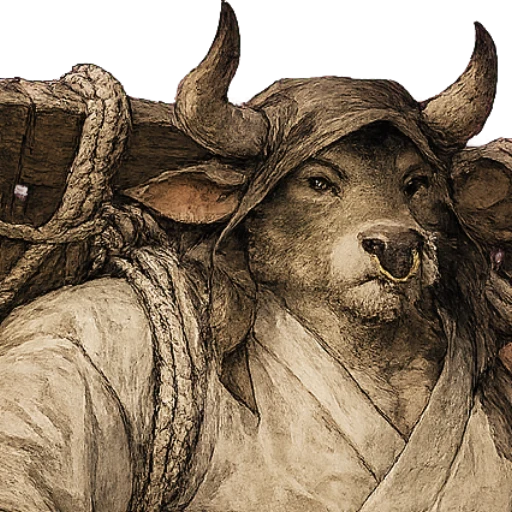
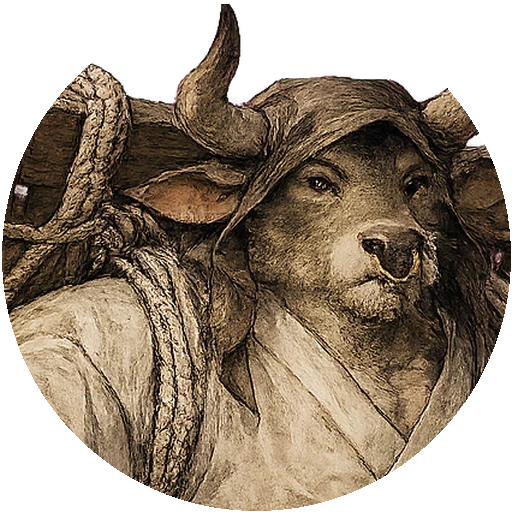
feat(client): 보드 토큰을 얼굴 일러스트로 — 색 원판 위 원형 얼굴 (game-scene)
- 얼굴 에셋을 원형(circular alpha)으로 재생성 — DOM 아이콘/토큰 공용
- 토큰·계략NPC face를 이모지 텍스트 → 얼굴 이미지(색 원판보다 작게 얹어 원판 색이 링으로 보임)
- makeFace(): 얼굴 텍스처 있으면 이미지, 없으면 이모지 폴백. identity()도 이미지/텍스트 분기
- 상단 턴순서 스트립(ti-chip)은 이모지 그대로 유지(요청)

diff --git a/apps/client/src/scenes/game-scene.ts b/apps/client/src/scenes/game-scene.ts
@@ -21,6 +21,7 @@ import {
   BUBBLE_SAFE_PAD_PX,
   bubbleLifeMs,
   fitZoom,
+  ZODIAC,
   doorOutward,
   doorSideOf,
   emoji,
@@ -187,7 +188,7 @@ type Token = {
   c: Phaser.GameObjects.Container;
   ring: Phaser.GameObjects.Arc;
   disc: Phaser.GameObjects.Arc;
-  face: Phaser.GameObjects.Text;
+  face: Phaser.GameObjects.Image | Phaser.GameObjects.Text;
   name: Phaser.GameObjects.Text;
   /** 이름표 좌측 색 스트라이프 — 색과 이름을 같은 픽셀에. */
   stripe: Phaser.GameObjects.Rectangle;
@@ -291,6 +292,24 @@ export class GameScene extends Phaser.Scene implements ViewContract {
     }
     // 중앙 잔치상(ROOM_REGIONS 밖 · 별도 좌표)도 이미지가 있으면 로드.
     this.load.image("room-feast", "/assets/rooms/feast.webp");
+    // 보드 토큰 «얼굴»(원형) — 십이지 12 + 계략 NPC(쿼카·안드로이드). 색 원판 위에 얹는다.
+    for (const key of [...ZODIAC, "quokka", "android"]) {
+      this.load.image(`face-${key}`, `/assets/characters/face/${key}.webp`);
+    }
+  }
+
+  /** 토큰 얼굴 조각 — 얼굴 이미지(원형)가 있으면 그걸, 없으면 이모지 텍스트로 폴백. */
+  private makeFace(
+    value: string,
+    px: number,
+  ): Phaser.GameObjects.Image | Phaser.GameObjects.Text {
+    const key = `face-${value}`;
+    if (this.textures.exists(key)) {
+      return this.add.image(0, 0, key).setDisplaySize(px, px).setOrigin(0.5);
+    }
+    return this.add
+      .text(0, 0, emoji(value), { fontSize: `${Math.floor(px * 0.72)}px` })
+      .setOrigin(0.5);
   }
 
   create(): void {
@@ -897,11 +916,7 @@ export class GameScene extends Phaser.Scene implements ViewContract {
         const disc = this.add
           .circle(0, 0, CELL * 0.42, BOARD.helperDisc)
           .setStrokeStyle(TOKEN_OUTLINE_PX, BOARD.helperEdge);
-        const face = this.add
-          .text(0, 0, emoji(h.value), {
-            fontSize: `${Math.floor(CELL * 0.5)}px`,
-          })
-          .setOrigin(0.5);
+        const face = this.makeFace(h.value, CELL * 0.72);
         const mark = this.add
           .text(CELL * 0.3, -CELL * 0.3, "🃏", { fontSize: "15px" })
           .setOrigin(0.5);
@@ -1300,7 +1315,13 @@ export class GameScene extends Phaser.Scene implements ViewContract {
     const color = zodiacColor(suspect);
     this.tokens.forEach((t) => {
       if (t.suspect !== suspect) return;
-      t.face.setText(emoji(suspect));
+      // 얼굴 표기 되맞춤 — 이미지면 텍스처, 이모지 폴백이면 텍스트.
+      if (t.face instanceof Phaser.GameObjects.Text) {
+        t.face.setText(emoji(suspect));
+      } else {
+        const key = `face-${suspect}`;
+        if (this.textures.exists(key)) t.face.setTexture(key);
+      }
       t.disc.setFillStyle(color);
       t.stripe.setFillStyle(color);
     });
@@ -1479,12 +1500,8 @@ export class GameScene extends Phaser.Scene implements ViewContract {
     const disc = this.add
       .circle(0, 0, CELL * 0.4, color)
       .setStrokeStyle(TOKEN_OUTLINE_PX, TOKEN_OUTLINE_COLOR);
-    // 이모지 = 색에 의존하지 않는 1차 식별자. 색은 보조 단서다.
-    const face = this.add
-      .text(0, 0, emoji(a.suspect), {
-        fontSize: `${Math.floor(CELL * 0.52)}px`,
-      })
-      .setOrigin(0.5);
+    // 얼굴(원형 일러스트) — 색 원판보다 살짝 작게 얹어 원판 색이 링으로 보이게(색은 보조 단서).
+    const face = this.makeFace(a.suspect, CELL * 0.72);
     const name = this.add
       .text(0, CELL * 0.55, `${a.isBot ? "🤖" : ""}${a.name}`, {
         fontSize: "13px",
